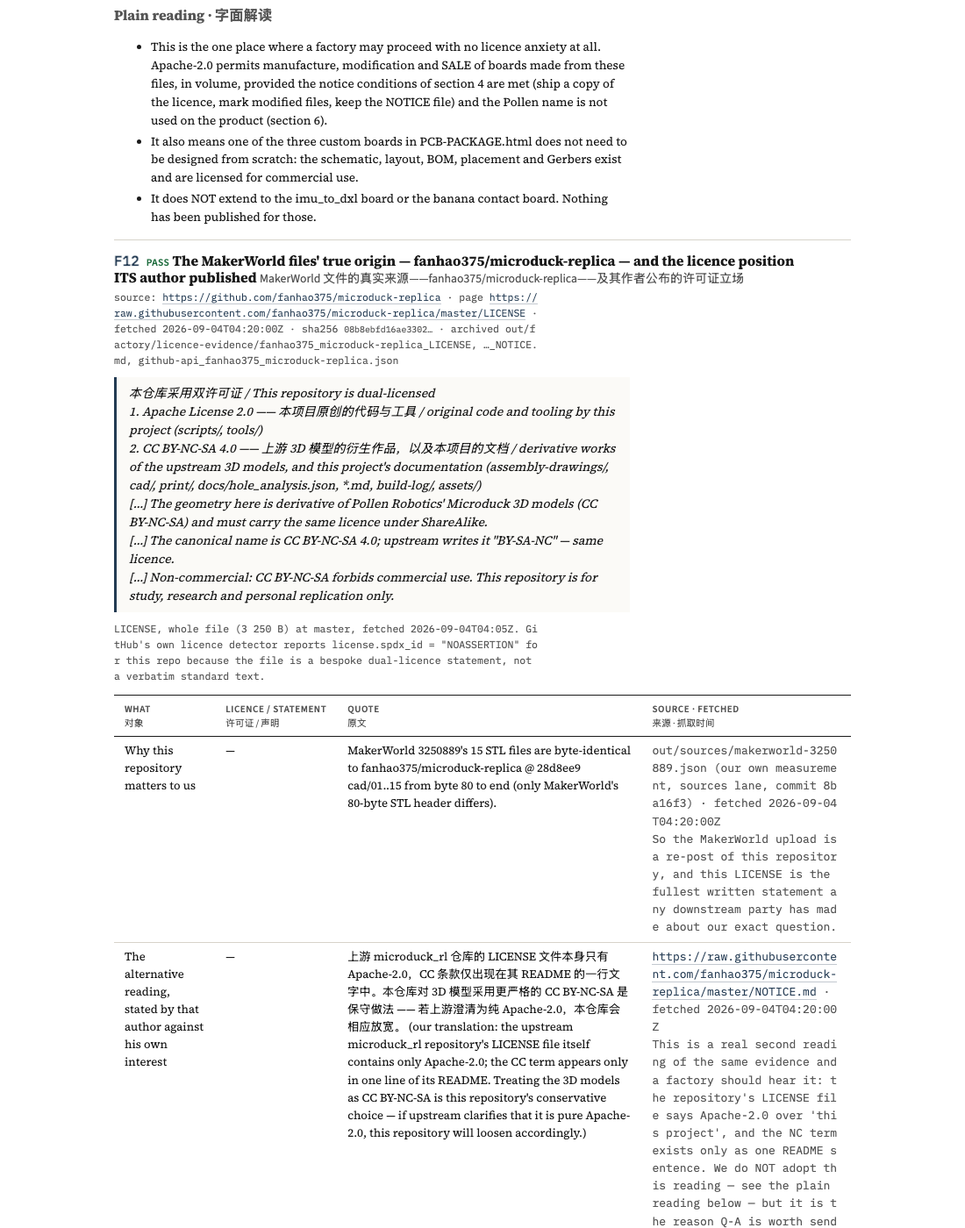
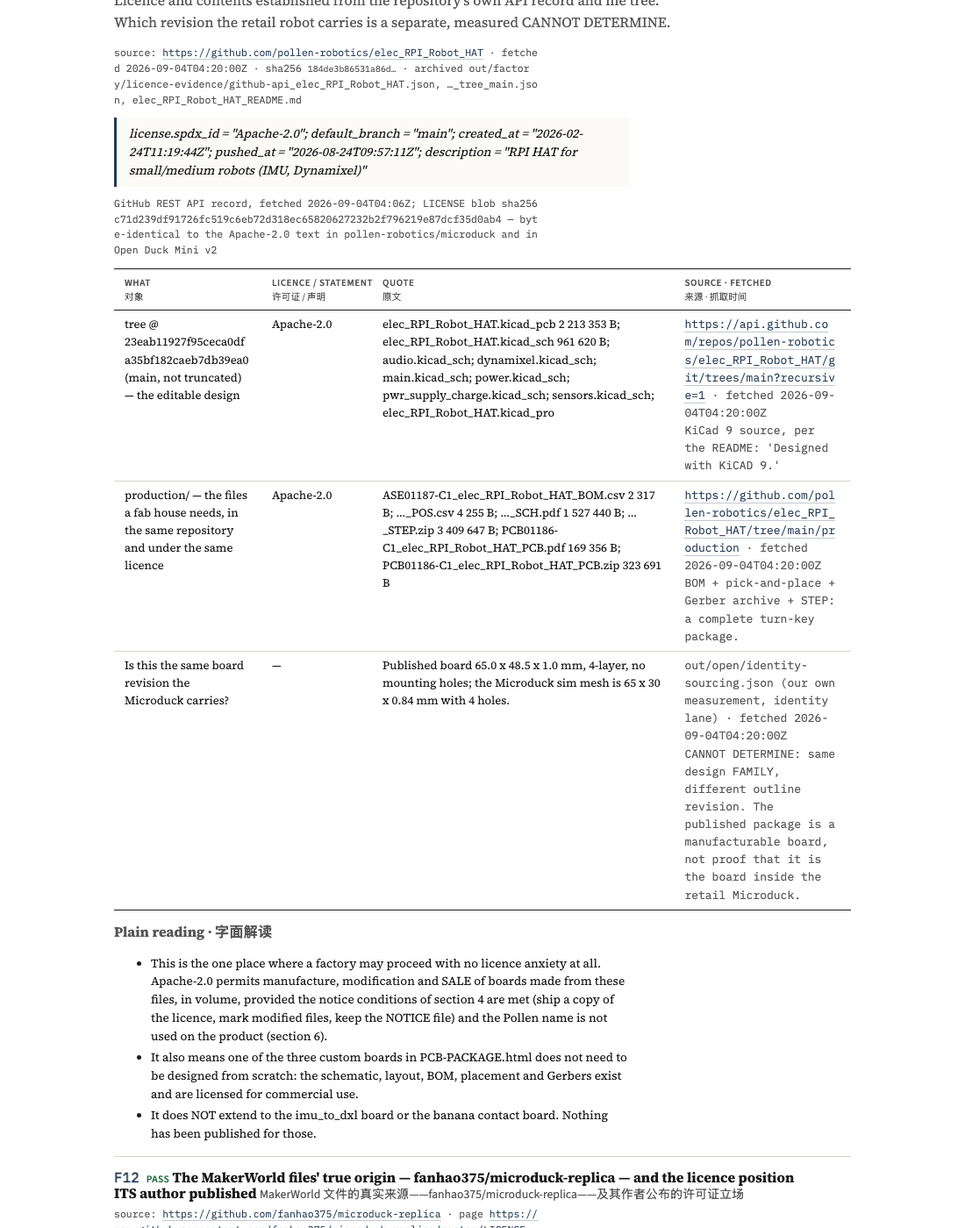
licence lane: LOOKED AT the page and fixed two real CSS defects the read-back found. (1) A latent bug in the generator's <style> block — that string is NOT %-formatted, so 'width:100%%' leaked literally into the CSS and table#ev / table#repo never received the table-layout:fixed they were written to

Changed region(s): [[0.1236, 0.0, 0.8655, 0.8293], [0.1236, 0.7371, 0.8655, 1.0]]

diff --git a/LICENCE-POSITION.html b/LICENCE-POSITION.html
@@ -30,8 +30,18 @@
   table.data td.v .chip.long{white-space:normal;display:inline-block;max-width:150px;line-height:1.35}
   table#q4 td.v{white-space:normal;min-width:120px}
   table#q4{table-layout:fixed}
-  table#ev{table-layout:fixed;width:100%%;min-width:0} table#ev td,table#ev th{overflow-wrap:anywhere;word-break:break-all;white-space:normal}
-  table#repo{table-layout:fixed;width:100%%;min-width:0} table#repo td{overflow-wrap:anywhere;white-space:normal}
+  table#ev{table-layout:fixed;width:100%;min-width:0} table#ev td,table#ev th{overflow-wrap:anywhere;word-break:break-all;white-space:normal}
+  table#repo{table-layout:fixed;width:100%;min-width:0} table#repo td{overflow-wrap:anywhere;white-space:normal}
+  /* fact ITEM tables carry raw URLs, API bodies and hashes: without a fixed layout one
+     long unbreakable token pushes the table past its column and a print/PDF loses a column.
+     MEASURED 2026-09-04: F18 rendered 867 px inside an 840 px column before this rule. */
+  table.items{table-layout:fixed;width:100%}
+  table.items td,table.items th{overflow-wrap:anywhere;word-break:break-word}
+  /* only the URL may break mid-token. The .src cell also carries a prose note, and
+     break-all chopped it per character ("Publishin g board designs openly is Pollen's
+     standing p ractice") — READ BACK off strip 17, 2026-09-04, and fixed here. */
+  table.items td.src{word-break:normal;overflow-wrap:anywhere}
+  table.items td.src a{word-break:break-all}
   .instr{display:grid;grid-template-columns:1fr 1fr;gap:18px}
   .instr ol{margin:0 0 0 20px;font-size:13.5px}
   .instr ol li{margin:5px 0}
@@ -46,7 +56,7 @@
   <p class="eyebrow">Microduck · factory handoff pack · 工厂交接资料包</p>
   <h1>Licence and origin position <span class="zh">许可证与来源立场</span></h1>
   <p class="sub">What Pollen Robotics published, under which terms, what that plainly allows a factory to do, and what is ours. Every fact carries a URL, a verbatim quote, a fetch time and a hash of the archived bytes. This is the licence text and its plain reading; it is not legal advice. <span class="zh">本页记录 Pollen Robotics 发布了什么、采用何种条款、字面上允许工厂做什么、哪些属于我们。每条事实都附有网址、原文引用、抓取时间和存档字节的哈希值。本页是许可证原文及其字面解读，不构成法律意见。</span></p>
-  <div class="rev"><span>MD-LIC-001 · Rev A</span><span>2026-09-04 09:11 UTC</span><span>generator: tools/gen_licence.py</span><span>data: out/factory/licence.json</span><span>facts fetched: 2026-09-04T09:10:00Z</span></div>
+  <div class="rev"><span>MD-LIC-001 · Rev A</span><span>2026-09-04 09:16 UTC</span><span>generator: tools/gen_licence.py</span><span>data: out/factory/licence.json</span><span>facts fetched: 2026-09-04T09:10:00Z</span></div>
 </header>
 <div class="statbar">
   <div class="stat"><b>19</b><span>facts · 事实</span></div>
@@ -87,7 +97,7 @@
 </div>
 <div class="fact" id="F3"><h3><span class="id">F3</span><span class="chip pass">PASS</span> Pollen software and firmware licences (separate from the models) <span class="zh">Pollen 软件与固件许可证（与模型分开）</span></h3>
 <p class="lede">Software and firmware licences established. One new item added 2026-09-04 (microduck-gst-plugins) and the Hugging Face policy licence re-fetched the same night. The one un-audited item is the licence stack INSIDE the prebuilt GStreamer binaries — Q-F.</p>
-<div class="tablewrap"><table class="data"><thead><tr><th>What<br><span class="zh">对象</span></th><th>Licence / statement<br><span class="zh">许可证 / 声明</span></th><th>Quote<br><span class="zh">原文</span></th><th>Source · fetched<br><span class="zh">来源 · 抓取时间</span></th></tr></thead><tbody>
+<div class="tablewrap"><table class="data items"><colgroup><col style="width:20%"><col style="width:15%"><col style="width:41%"><col style="width:24%"></colgroup><thead><tr><th>What<br><span class="zh">对象</span></th><th>Licence / statement<br><span class="zh">许可证 / 声明</span></th><th>Quote<br><span class="zh">原文</span></th><th>Source · fetched<br><span class="zh">来源 · 抓取时间</span></th></tr></thead><tbody>
 <tr><td>pollen-robotics/microduck — the robot&#x27;s runtime (robotd, duck-control, tofd, mediad, updaterd, robotctl, duckctl)</td><td>Apache-2.0</td><td>license.spdx_id = &quot;Apache-2.0&quot;; default_branch = &quot;main&quot;; pushed_at = &quot;2026-09-03T15:06:34Z&quot;</td><td class="src"><a href="https://api.github.com/repos/pollen-robotics/microduck">https://api.github.com/repos/pollen-robotics/microduck</a> · fetched 2026-09-03T15:14:55Z<br>The README of this repository carries no licence sentence at all (grep -i licen on the live README: 0 hits, 2026-09-03). The LICENSE file is the only statement.</td></tr>
 <tr><td>pollen-robotics/microduck_rl — training code, MJCF loaders, export scripts</td><td>Apache-2.0 for &#x27;this project&#x27;; 3D model files carved out to CC (F1)</td><td></td><td class="src"><a href="https://raw.githubusercontent.com/pollen-robotics/microduck_rl/develop/LICENSE">https://raw.githubusercontent.com/pollen-robotics/microduck_rl/develop/LICENSE</a> · fetched 2026-09-03T15:14:55Z<br>2d3fd9ffffa70a4307498ec630b14a6b4731e010f8ddda92686eaf65733c2dfe</td></tr>
 <tr><td>Shipped policies (ONNX) on Hugging Face, pollen-robotics/microduck-policies</td><td>Apache-2.0</td><td></td><td class="src"><a href="https://huggingface.co/api/models/pollen-robotics/microduck-policies">https://huggingface.co/api/models/pollen-robotics/microduck-policies</a><br>RE-FETCHED TONIGHT 2026-09-04T09:0xZ (the earlier note &#x27;not re-fetched tonight&#x27; is retired): cardData.license = &quot;apache-2.0&quot;, tags include &quot;license:apache-2.0&quot;, lastModified 2026-09-02T15:20:53Z, gated false, private false. Archived out/factory/licence-evidence/huggingface_microduck-policies.json, sha256 1e2308964ced1b34e8772f2d82d3fcdbe85a40e4fd49a7be550993ca1c6db666. NOTE the top-level &quot;license&quot; field is null and the licence lives in cardData/tags — a model card statement, not a LICENSE file in a repository.</td></tr>
@@ -103,7 +113,7 @@
 </div>
 <div class="fact" id="F4"><h3><span class="id">F4</span><span class="chip pass">PASS</span> Pollen&#x27;s own statement on the hardware <span class="zh">Pollen 关于硬件的官方声明</span></h3>
 <p class="lede">Established, and narrowed: &#x27;not open-source hardware&#x27; is Pollen&#x27;s own words about the robot as a whole; one board is nevertheless fully open (F11).</p>
-<div class="tablewrap"><table class="data"><thead><tr><th>What<br><span class="zh">对象</span></th><th>Licence / statement<br><span class="zh">许可证 / 声明</span></th><th>Quote<br><span class="zh">原文</span></th><th>Source · fetched<br><span class="zh">来源 · 抓取时间</span></th></tr></thead><tbody>
+<div class="tablewrap"><table class="data items"><colgroup><col style="width:20%"><col style="width:15%"><col style="width:41%"><col style="width:24%"></colgroup><thead><tr><th>What<br><span class="zh">对象</span></th><th>Licence / statement<br><span class="zh">许可证 / 声明</span></th><th>Quote<br><span class="zh">原文</span></th><th>Source · fetched<br><span class="zh">来源 · 抓取时间</span></th></tr></thead><tbody>
 <tr><td></td><td></td><td>Open source = software. The open-source statement covers the software stack. The mechanical and electronic design files are not, so please do not describe the robot as open-source hardware.<br><i>© 2026 Pollen Robotics · Open source under Apache 2.0 (site footer)</i></td><td class="src"><a href="https://pollen-robotics.com/microduck/press-kit/">https://pollen-robotics.com/microduck/press-kit/</a> · fetched 2026-09-03T15:16:30Z · sha256 0a7d444d1c020f18…</td></tr>
 <tr><td><br><span class="zh">Brandon Vigliarolo, published Thu 27 Aug 2026 17:25 UTC</span></td><td></td><td>That hardware isn&#x27;t open source, mind you, but the entire software stack Microduck is built on is, and Pollen is encouraging users to share skills once the entire Microduck system goes live later this year. A Pollen rep told us that the company has no plans to open source the hardware.</td><td class="src"><a href="https://www.theregister.com/ai-and-ml/2026/08/27/hugging-face-offers-399-robot-duck-to-help-you-quack-the-ai-code/5293011">https://www.theregister.com/ai-and-ml/2026/08/27/hugging-face-offers-399-robot-duck-to-help-you-quack-the-ai-code/5293011</a> · fetched 2026-09-03T15:17:10Z · sha256 4d809b7a1b713e19…</td></tr>
 </tbody></table></div>
@@ -154,7 +164,7 @@
 <p class="lede"><b>Plain reading · 字面解读</b></p><ul><li>The licence is a COPYRIGHT licence (1(a): &#x27;material subject to Copyright and Similar Rights&#x27;). It only reaches what copyright reaches. Whether the functional shape of a servo bracket is protected by copyright, and in which country, is not answered by the licence text. That is the single question counsel must answer (Q-B).</li><li>The grant (2(a)(1)) covers reproducing the files and producing Adapted Material — including, on the plain reading, physical objects made from them — for NonCommercial purposes ONLY.</li><li>ShareAlike (3(b)) binds anything we SHARE that is Adapted Material: drawings, rebuilt CAD, STEP files we hand to a factory, if they are Adapted Material, must go out under BY-NC-SA with attribution (3(a)).</li><li>Nothing in the licence is a volume threshold, a royalty schedule or a per-unit fee; NC is a purpose test.</li></ul>
 </div>
 <div class="fact" id="F8"><h3><span class="id">F8</span><span class="chip pass">PASS</span> What Pollen sells and at what price <span class="zh">Pollen 的销售产品与价格</span></h3>
-<div class="tablewrap"><table class="data"><thead><tr><th>What<br><span class="zh">对象</span></th><th>Licence / statement<br><span class="zh">许可证 / 声明</span></th><th>Quote<br><span class="zh">原文</span></th><th>Source · fetched<br><span class="zh">来源 · 抓取时间</span></th></tr></thead><tbody>
+<div class="tablewrap"><table class="data items"><colgroup><col style="width:20%"><col style="width:15%"><col style="width:41%"><col style="width:24%"></colgroup><thead><tr><th>What<br><span class="zh">对象</span></th><th>Licence / statement<br><span class="zh">许可证 / 声明</span></th><th>Quote<br><span class="zh">原文</span></th><th>Source · fetched<br><span class="zh">来源 · 抓取时间</span></th></tr></thead><tbody>
 <tr><td></td><td></td><td>Pre-order for $399 | $399 before taxes and shipping | Introductory price, before taxes and shipping. | The robot: Microduck $399 — In the box: Robot, battery, USB-C cable, game controller [...] | Charger pack $39 — Dual charger, 2x batteries. | Dev pack $119 — 3x spare motors, 5x motor cables, 2x batteries, dual charger, 10x NFC tags, Hugging Face credit, screwdriver, screw pack. | Accessory pack $39 — Laser pointer, NFC polaroid, 2x rollers, ball, 10x NFC tags.</td><td class="src"><a href="https://pollen-robotics.com/microduck/">https://pollen-robotics.com/microduck/</a> · fetched 2026-09-03T15:16:30Z</td></tr>
 <tr><td></td><td></td><td>Microduck Cream €340,00 EUR | Charger Pack €33,00 | Accessory Pack €33,00 | Dev Pack €99,99 | Shipping &amp; Availability: Pre-order price: $399 before taxes and shipping</td><td class="src"><a href="https://store.pollen-robotics.com/products/microduck">https://store.pollen-robotics.com/products/microduck</a> · fetched 2026-09-03T15:16:30Z · sha256 59c1341313914e06…<br>Shopify JSON in the page: &quot;price&quot;:{&quot;amount&quot;:340.0,&quot;currencyCode&quot;:&quot;EUR&quot;} for each of the four colour variants.</td></tr>
 <tr><td></td><td></td><td>Price $399 before taxes and shipping, introductory | Pre-orders Open from August 27, 2026 | First deliveries Targeted before Christmas 2026 | Markets North America and Europe at launch | Colourways 4 at launch: Cream, Graphite, Lavender and Sky</td><td class="src"><a href="https://pollen-robotics.com/microduck/press-kit/">https://pollen-robotics.com/microduck/press-kit/</a> · fetched 2026-09-03T15:16:30Z</td></tr>
@@ -181,7 +191,7 @@
 <p class="src">source: <a href="https://github.com/pollen-robotics/elec_RPI_Robot_HAT">https://github.com/pollen-robotics/elec_RPI_Robot_HAT</a> · fetched 2026-09-04T04:20:00Z · sha256 <code>184de3b86531a86d…</code> · archived out/factory/licence-evidence/github-api_elec_RPI_Robot_HAT.json, …_tree_main.json, elec_RPI_Robot_HAT_README.md</p>
 <blockquote class="q">license.spdx_id = &quot;Apache-2.0&quot;; default_branch = &quot;main&quot;; created_at = &quot;2026-02-24T11:19:44Z&quot;; pushed_at = &quot;2026-08-24T09:57:11Z&quot;; description = &quot;RPI HAT for small/medium robots (IMU, Dynamixel)&quot;</blockquote>
 <p class="src">GitHub REST API record, fetched 2026-09-04T04:06Z; LICENSE blob sha256 c71d239df91726fc519c6eb72d318ec65820627232b2f796219e87dcf35d0ab4 — byte-identical to the Apache-2.0 text in pollen-robotics/microduck and in Open Duck Mini v2</p>
-<div class="tablewrap"><table class="data"><thead><tr><th>What<br><span class="zh">对象</span></th><th>Licence / statement<br><span class="zh">许可证 / 声明</span></th><th>Quote<br><span class="zh">原文</span></th><th>Source · fetched<br><span class="zh">来源 · 抓取时间</span></th></tr></thead><tbody>
+<div class="tablewrap"><table class="data items"><colgroup><col style="width:20%"><col style="width:15%"><col style="width:41%"><col style="width:24%"></colgroup><thead><tr><th>What<br><span class="zh">对象</span></th><th>Licence / statement<br><span class="zh">许可证 / 声明</span></th><th>Quote<br><span class="zh">原文</span></th><th>Source · fetched<br><span class="zh">来源 · 抓取时间</span></th></tr></thead><tbody>
 <tr><td>tree @ 23eab11927f95ceca0dfa35bf182caeb7db39ea0 (main, not truncated) — the editable design</td><td>Apache-2.0</td><td>elec_RPI_Robot_HAT.kicad_pcb 2 213 353 B; elec_RPI_Robot_HAT.kicad_sch 961 620 B; audio.kicad_sch; dynamixel.kicad_sch; main.kicad_sch; power.kicad_sch; pwr_supply_charge.kicad_sch; sensors.kicad_sch; elec_RPI_Robot_HAT.kicad_pro</td><td class="src"><a href="https://api.github.com/repos/pollen-robotics/elec_RPI_Robot_HAT/git/trees/main?recursive=1">https://api.github.com/repos/pollen-robotics/elec_RPI_Robot_HAT/git/trees/main?recursive=1</a> · fetched 2026-09-04T04:20:00Z<br>KiCad 9 source, per the README: &#x27;Designed with KiCAD 9.&#x27;</td></tr>
 <tr><td>production/ — the files a fab house needs, in the same repository and under the same licence</td><td>Apache-2.0</td><td>ASE01187-C1_elec_RPI_Robot_HAT_BOM.csv 2 317 B; …_POS.csv 4 255 B; …_SCH.pdf 1 527 440 B; …_STEP.zip 3 409 647 B; PCB01186-C1_elec_RPI_Robot_HAT_PCB.pdf 169 356 B; PCB01186-C1_elec_RPI_Robot_HAT_PCB.zip 323 691 B</td><td class="src"><a href="https://github.com/pollen-robotics/elec_RPI_Robot_HAT/tree/main/production">https://github.com/pollen-robotics/elec_RPI_Robot_HAT/tree/main/production</a> · fetched 2026-09-04T04:20:00Z<br>BOM + pick-and-place + Gerber archive + STEP: a complete turn-key package.</td></tr>
 <tr><td>Is this the same board revision the Microduck carries?</td><td>—</td><td>Published board 65.0 x 48.5 x 1.0 mm, 4-layer, no mounting holes; the Microduck sim mesh is 65 x 30 x 0.84 mm with 4 holes.</td><td class="src">out/open/identity-sourcing.json (our own measurement, identity lane) · fetched 2026-09-04T04:20:00Z<br>CANNOT DETERMINE: same design FAMILY, different outline revision. The published package is a manufacturable board, not proof that it is the board inside the retail Microduck.</td></tr>
@@ -192,7 +202,7 @@
 <p class="src">source: <a href="https://github.com/fanhao375/microduck-replica">https://github.com/fanhao375/microduck-replica</a> · page <a href="https://raw.githubusercontent.com/fanhao375/microduck-replica/master/LICENSE">https://raw.githubusercontent.com/fanhao375/microduck-replica/master/LICENSE</a> · fetched 2026-09-04T04:20:00Z · sha256 <code>08b8ebfd16ae3302…</code> · archived out/factory/licence-evidence/fanhao375_microduck-replica_LICENSE, …_NOTICE.md, github-api_fanhao375_microduck-replica.json</p>
 <blockquote class="q">本仓库采用双许可证 / This repository is dual-licensed<br>1. Apache License 2.0 —— 本项目原创的代码与工具 / original code and tooling by this project (scripts/, tools/)<br>2. CC BY-NC-SA 4.0 —— 上游 3D 模型的衍生作品，以及本项目的文档 / derivative works of the upstream 3D models, and this project&#x27;s documentation (assembly-drawings/, cad/, print/, docs/hole_analysis.json, *.md, build-log/, assets/)<br>[…] The geometry here is derivative of Pollen Robotics&#x27; Microduck 3D models (CC BY-NC-SA) and must carry the same licence under ShareAlike.<br>[…] The canonical name is CC BY-NC-SA 4.0; upstream writes it &quot;BY-SA-NC&quot; — same licence.<br>[…] Non-commercial: CC BY-NC-SA forbids commercial use. This repository is for study, research and personal replication only.</blockquote>
 <p class="src">LICENSE, whole file (3 250 B) at master, fetched 2026-09-04T04:05Z. GitHub&#x27;s own licence detector reports license.spdx_id = &quot;NOASSERTION&quot; for this repo because the file is a bespoke dual-licence statement, not a verbatim standard text.</p>
-<div class="tablewrap"><table class="data"><thead><tr><th>What<br><span class="zh">对象</span></th><th>Licence / statement<br><span class="zh">许可证 / 声明</span></th><th>Quote<br><span class="zh">原文</span></th><th>Source · fetched<br><span class="zh">来源 · 抓取时间</span></th></tr></thead><tbody>
+<div class="tablewrap"><table class="data items"><colgroup><col style="width:20%"><col style="width:15%"><col style="width:41%"><col style="width:24%"></colgroup><thead><tr><th>What<br><span class="zh">对象</span></th><th>Licence / statement<br><span class="zh">许可证 / 声明</span></th><th>Quote<br><span class="zh">原文</span></th><th>Source · fetched<br><span class="zh">来源 · 抓取时间</span></th></tr></thead><tbody>
 <tr><td>Why this repository matters to us</td><td>—</td><td>MakerWorld 3250889&#x27;s 15 STL files are byte-identical to fanhao375/microduck-replica @ 28d8ee9 cad/01..15 from byte 80 to end (only MakerWorld&#x27;s 80-byte STL header differs).</td><td class="src">out/sources/makerworld-3250889.json (our own measurement, sources lane, commit 8ba16f3) · fetched 2026-09-04T04:20:00Z<br>So the MakerWorld upload is a re-post of this repository, and this LICENSE is the fullest written statement any downstream party has made about our exact question.</td></tr>
 <tr><td>The alternative reading, stated by that author against his own interest</td><td>—</td><td>上游 microduck_rl 仓库的 LICENSE 文件本身只有 Apache-2.0，CC 条款仅出现在其 README 的一行文字中。本仓库对 3D 模型采用更严格的 CC BY-NC-SA 是保守做法 —— 若上游澄清为纯 Apache-2.0，本仓库会相应放宽。 (our translation: the upstream microduck_rl repository&#x27;s LICENSE file itself contains only Apache-2.0; the CC term appears only in one line of its README. Treating the 3D models as CC BY-NC-SA is this repository&#x27;s conservative choice — if upstream clarifies that it is pure Apache-2.0, this repository will loosen accordingly.)</td><td class="src"><a href="https://raw.githubusercontent.com/fanhao375/microduck-replica/master/NOTICE.md">https://raw.githubusercontent.com/fanhao375/microduck-replica/master/NOTICE.md</a> · fetched 2026-09-04T04:20:00Z<br>This is a real second reading of the same evidence and a factory should hear it: the repository&#x27;s LICENSE file says Apache-2.0 over &#x27;this project&#x27;, and the NC term exists only as one README sentence. We do NOT adopt this reading — see the plain reading below — but it is the reason Q-A is worth sending.</td></tr>
 <tr><td>Attribution wording that party uses</td><td>CC BY-NC-SA 4.0</td><td>基于 Pollen Robotics 的 Microduck 模型（CC BY-NC-SA） https://github.com/pollen-robotics/microduck_rl</td><td class="src"><a href="https://raw.githubusercontent.com/fanhao375/microduck-replica/master/NOTICE.md">https://raw.githubusercontent.com/fanhao375/microduck-replica/master/NOTICE.md</a> · fetched 2026-09-04T04:20:00Z<br>A ready-made attribution line in Chinese and the upstream baseline they pin: microduck_rl @ 2fa62b8 (2026-07-28 assets/).</td></tr>
@@ -218,7 +228,7 @@
 <p class="src">source: <a href="https://www.tmdn.org/tmview/api/search/results">https://www.tmdn.org/tmview/api/search/results</a> · page <a href="https://www.tmdn.org/tmview/">https://www.tmdn.org/tmview/</a> · fetched 2026-09-04T04:20:00Z</p>
 <blockquote class="q">basicSearch=&quot;microduck&quot; → {&quot;tradeMarks&quot;:[],&quot;page&quot;:1,&quot;totalPages&quot;:0,&quot;totalResults&quot;:0}</blockquote>
 <p class="src">TMview public search API, POST, HTTP 200, 2026-09-04T04:1xZ. TMview aggregates EUIPO, the EU national offices, USPTO, CNIPA and WIPO.</p>
-<div class="tablewrap"><table class="data"><thead><tr><th>What<br><span class="zh">对象</span></th><th>Licence / statement<br><span class="zh">许可证 / 声明</span></th><th>Quote<br><span class="zh">原文</span></th><th>Source · fetched<br><span class="zh">来源 · 抓取时间</span></th></tr></thead><tbody>
+<div class="tablewrap"><table class="data items"><colgroup><col style="width:20%"><col style="width:15%"><col style="width:41%"><col style="width:24%"></colgroup><thead><tr><th>What<br><span class="zh">对象</span></th><th>Licence / statement<br><span class="zh">许可证 / 声明</span></th><th>Quote<br><span class="zh">原文</span></th><th>Source · fetched<br><span class="zh">来源 · 抓取时间</span></th></tr></thead><tbody>
 <tr><td>CONTROL — the same query shape on a name we know is registered</td><td>—</td><td>basicSearch=&quot;reachy&quot; → totalResults 47, including: REACHY | US | 97848202 | 2023-03-20 | Registered | POLLEN ROBOTICS; REACHY | WO | 1742404 | 2023-03-06 | Registered | POLLEN ROBOTICS; REACHY | CN | 20866236 | 2016-08-03 | Registered | 湖南锐成超硬复合材料有限责任公司</td><td class="src"><a href="https://www.tmdn.org/tmview/api/search/results">https://www.tmdn.org/tmview/api/search/results</a> · fetched 2026-09-04T04:20:00Z<br>The control proves the endpoint answers and reaches US, WO and CN. A zero for &#x27;microduck&#x27; is therefore a real zero, not a broken query.</td></tr>
 <tr><td>Pollen&#x27;s own registered mark</td><td>—</td><td>basicSearch=&quot;pollen&quot; → 1 863 results; of the first 100, one names POLLEN ROBOTICS as applicant: pollen | FR | 4608883 | 2019-12-19 | Registered</td><td class="src"><a href="https://www.tmdn.org/tmview/api/search/results">https://www.tmdn.org/tmview/api/search/results</a> · fetched 2026-09-04T04:20:00Z<br>Pollen Robotics files trademarks. That is the point of the control: they registered REACHY in the US and via WIPO, and &#x27;pollen&#x27; in France.</td></tr>
 <tr><td>Designs — NOT searched</td><td>—</td><td>POST to /tmdsview-web/rest/api/designs/search and /tmdsview-web/api/search/results both returned HTTP 000 (no reply) from this Mac.</td><td class="src"><a href="https://www.tmdn.org/tmdsview-web/">https://www.tmdn.org/tmdsview-web/</a> · fetched 2026-09-04T04:20:00Z<br>Registered Community designs, CN 外观设计 and US design patents remain unsearched. Named in Q-C.</td></tr>
@@ -237,7 +247,7 @@
 <p class="src">source: <a href="https://api.github.com/orgs/pollen-robotics/repos?per_page=100&amp;type=public (authenticated, --paginate)">https://api.github.com/orgs/pollen-robotics/repos?per_page=100&amp;type=public (authenticated, --paginate)</a> · page <a href="https://github.com/orgs/pollen-robotics/repositories">https://github.com/orgs/pollen-robotics/repositories</a> · fetched 2026-09-04T09:10:00Z · sha256 <code>853fda9476eb58c4…</code> · archived out/factory/licence-evidence/github_pollen-robotics_repo-census.json</p>
 <blockquote class="q">n_repos = 214; by_spdx = {&quot;Apache-2.0&quot;: 131, &quot;NONE&quot;: 37, &quot;NOASSERTION&quot;: 14, &quot;MIT&quot;: 13, &quot;BSD-3-Clause&quot;: 9, &quot;GPL-3.0&quot;: 4, &quot;CC-BY-SA-4.0&quot;: 3, &quot;CC0-1.0&quot;: 1, &quot;CC-BY-4.0&quot;: 1, &quot;BSD-2-Clause&quot;: 1}</blockquote>
 <p class="src">Every public repository of the pollen-robotics organisation, with the licence GitHub itself resolves for each, taken in one authenticated pass so the count is complete and not truncated by the anonymous rate limit (the anonymous call from this Mac returned HTTP 403 &#x27;API rate limit exceeded&#x27; at 09:0x UTC and produced zero rows — the reason this census is taken with an authenticated call).</p>
-<div class="tablewrap"><table class="data"><thead><tr><th>What<br><span class="zh">对象</span></th><th>Licence / statement<br><span class="zh">许可证 / 声明</span></th><th>Quote<br><span class="zh">原文</span></th><th>Source · fetched<br><span class="zh">来源 · 抓取时间</span></th></tr></thead><tbody>
+<div class="tablewrap"><table class="data items"><colgroup><col style="width:20%"><col style="width:15%"><col style="width:41%"><col style="width:24%"></colgroup><thead><tr><th>What<br><span class="zh">对象</span></th><th>Licence / statement<br><span class="zh">许可证 / 声明</span></th><th>Quote<br><span class="zh">原文</span></th><th>Source · fetched<br><span class="zh">来源 · 抓取时间</span></th></tr></thead><tbody>
 <tr><td>microduck — the robot&#x27;s runtime</td><td>Apache-2.0</td><td>default_branch = main; pushed_at = 2026-09-03T15:41:56Z; description = &quot;A Tiny biped duck robot 🦆&quot;</td><td class="src"><a href="https://github.com/pollen-robotics/microduck">https://github.com/pollen-robotics/microduck</a> · fetched 2026-09-04T09:10:00Z<br>Still Apache-2.0 tonight, and still being pushed to — the licence is live, not abandoned.</td></tr>
 <tr><td>microduck_rl — training environments AND the 43 meshes we build from</td><td>Apache-2.0 at the repository level; the CC sentence is README text only (F1, F19)</td><td>default_branch = develop; pushed_at = 2026-09-03T16:42:46Z</td><td class="src"><a href="https://github.com/pollen-robotics/microduck_rl">https://github.com/pollen-robotics/microduck_rl</a> · fetched 2026-09-04T09:10:00Z<br>GitHub&#x27;s own licence resolver reports Apache-2.0 for this repository. It cannot see the README carve-out. Anyone who reads only the GitHub licence badge will believe the meshes are Apache-2.0 — that is exactly the misreading F12&#x27;s author warns about, and the reason Q-A exists.</td></tr>
 <tr><td>microduck-gst-plugins — NEW, not in our earlier list: the prebuilt aarch64 GStreamer plugins the robot&#x27;s video path uses</td><td>Apache-2.0</td><td>default_branch = main; pushed_at = 2026-08-25T09:29:22Z; description = &quot;Prebuilt aarch64 GStreamer plugins for the micro duck robot: Rockchip MPP hardware encoders and gst-plugins-rs WebRTC. Built in CI from pinned upstream sources.&quot;</td><td class="src"><a href="https://github.com/pollen-robotics/microduck-gst-plugins">https://github.com/pollen-robotics/microduck-gst-plugins</a> · fetched 2026-09-04T09:10:00Z<br>A fourth Microduck software artifact, found by this census. It is a REPACKAGING of upstream projects, so the effective licence of what it ships is the upstream plugins&#x27; own (gst-plugins-rs is MPL-2.0, Rockchip MPP is Apache-2.0) — a factory shipping this binary must honour those, not only Pollen&#x27;s Apache-2.0 wrapper. Not yet audited file-by-file: see Q-F.</td></tr>
@@ -250,7 +260,7 @@
 <p class="src">source: <a href="https://www.tmdn.org/tmdsview-web/api/search/results (POST, JSON)">https://www.tmdn.org/tmdsview-web/api/search/results (POST, JSON)</a> · page <a href="https://www.tmdn.org/tmview/">https://www.tmdn.org/tmview/</a> · fetched 2026-09-04T09:10:00Z · sha256 <code>8964793853a4c8f7…</code> · archived out/factory/licence-evidence/tmview-rerun_microduck.json, tmview-rerun_reachy-control.json, designview_probe_2026-09-04.txt</p>
 <blockquote class="q">basicSearch=&quot;microduck&quot;, pageSize 100 → {&quot;tradeMarks&quot;:[],&quot;page&quot;:1,&quot;totalPages&quot;:0,&quot;totalResults&quot;:0}</blockquote>
 <p class="src">HTTP 200, 2026-09-04T09:07Z. Independent re-run of F15 (taken 2026-09-04T04:2xZ), through a different URL, with the same control.</p>
-<div class="tablewrap"><table class="data"><thead><tr><th>What<br><span class="zh">对象</span></th><th>Licence / statement<br><span class="zh">许可证 / 声明</span></th><th>Quote<br><span class="zh">原文</span></th><th>Source · fetched<br><span class="zh">来源 · 抓取时间</span></th></tr></thead><tbody>
+<div class="tablewrap"><table class="data items"><colgroup><col style="width:20%"><col style="width:15%"><col style="width:41%"><col style="width:24%"></colgroup><thead><tr><th>What<br><span class="zh">对象</span></th><th>Licence / statement<br><span class="zh">许可证 / 声明</span></th><th>Quote<br><span class="zh">原文</span></th><th>Source · fetched<br><span class="zh">来源 · 抓取时间</span></th></tr></thead><tbody>
 <tr><td>CONTROL, re-run at the same minute</td><td>—</td><td>basicSearch=&quot;reachy&quot; → totalResults 47, first record REACHY | MX | 2093340, markImageURI = https://www.tmdn.org/tmview/api/trademark/thumbnail/MX501985012093340</td><td class="src"><a href="https://www.tmdn.org/tmdsview-web/api/search/results">https://www.tmdn.org/tmdsview-web/api/search/results</a> · fetched 2026-09-04T09:10:00Z<br>Same 47 as F15 got four hours earlier through the other path. The zero for &#x27;microduck&#x27; is a real zero from a working endpoint, twice, by two routes.</td></tr>
 <tr><td>The canonical TMview path was BLOCKED tonight</td><td>—</td><td>HTTP 403 — &quot;The requested URL was rejected. Please consult with your administrator. Your support ID is: 5467687766780479252&quot;</td><td class="src"><a href="https://www.tmdn.org/tmview/api/search/results">https://www.tmdn.org/tmview/api/search/results</a> · fetched 2026-09-04T09:10:00Z<br>A web-application-firewall rejection page, not a licence fact. Recorded so the next agent does not read a 403 as &#x27;no such mark&#x27;. The /tmdsview-web/ path served the same API with HTTP 200.</td></tr>
 <tr><td>DESIGN rights — STILL NOT SEARCHED, and here is exactly why</td><td>—</td><td>POST /tmdsview-web/rest/api/design/search, /api/designs and /rest/api/designs/search → HTTP 405 Not Allowed (nginx/1.30.4). GET the same paths with a query string → HTTP 200 but the body is the single-page-app HTML shell, not JSON. index.3444bca5.js is 6 210 bytes and contains no /api or /rest path.</td><td class="src"><a href="https://www.tmdn.org/tmdsview-web/">https://www.tmdn.org/tmdsview-web/</a> · fetched 2026-09-04T09:10:00Z<br>TRAP, MEASURED AND REJECTED: POST /tmdsview-web/api/search/results DOES answer 200 and DOES return 0 for &#x27;microduck&#x27;. It is NOT a design search — the control returns 47 records under the key &quot;tradeMarks&quot; with tmview trademark thumbnail URLs. Reading that zero as &#x27;no registered design&#x27; would be a false clearance. It is not counted here.</td></tr>
@@ -382,7 +392,7 @@
 <li>Verdict words: PASS / FAIL / CANNOT DETERMINE. For a fact, PASS means established. For a question, PASS means the plain reading of the licence permits it, FAIL means it does not, CANNOT DETERMINE means the licence text does not answer it and the thing that does is named.</li>
 <li>A trade mark search WAS run on 2026-09-04 against TMview (EUIPO + EU national offices + USPTO + CNIPA + WIPO) with a control query, and it is reported as F15. No registered-design or patent search was run: both DesignView endpoints refused (F15, F9). No message was sent to anyone. Nothing was bought — in particular no Microduck was purchased, and F14 is the reason that matters.</li>
 <li>The Creative Commons clause text is the 4.0 International legal code. Pollen names no version; both 3.0 and 4.0 carry the NonCommercial and ShareAlike elements, so the plain-reading answers do not turn on the version, but the exact clause numbering would.</li>
-<li>Generated 2026-09-04 09:11 UTC by tools/gen_licence.py from out/factory/licence.json.</li>
+<li>Generated 2026-09-04 09:16 UTC by tools/gen_licence.py from out/factory/licence.json.</li>
 </ul></section>
 </div>
 </body>

diff --git a/tools/gen_licence.py b/tools/gen_licence.py
@@ -242,8 +242,18 @@ def render(data, census, wide, readme_checks, evidence, lic_file, now):
       '  table.data td.v .chip.long{white-space:normal;display:inline-block;max-width:150px;line-height:1.35}\n'
       '  table#q4 td.v{white-space:normal;min-width:120px}\n'
       '  table#q4{table-layout:fixed}\n'
-      '  table#ev{table-layout:fixed;width:100%%;min-width:0} table#ev td,table#ev th{overflow-wrap:anywhere;word-break:break-all;white-space:normal}\n'
-      '  table#repo{table-layout:fixed;width:100%%;min-width:0} table#repo td{overflow-wrap:anywhere;white-space:normal}\n'
+      '  table#ev{table-layout:fixed;width:100%;min-width:0} table#ev td,table#ev th{overflow-wrap:anywhere;word-break:break-all;white-space:normal}\n'
+      '  table#repo{table-layout:fixed;width:100%;min-width:0} table#repo td{overflow-wrap:anywhere;white-space:normal}\n'
+      '  /* fact ITEM tables carry raw URLs, API bodies and hashes: without a fixed layout one\n'
+      '     long unbreakable token pushes the table past its column and a print/PDF loses a column.\n'
+      '     MEASURED 2026-09-04: F18 rendered 867 px inside an 840 px column before this rule. */\n'
+      '  table.items{table-layout:fixed;width:100%}\n'
+      '  table.items td,table.items th{overflow-wrap:anywhere;word-break:break-word}\n'
+      '  /* only the URL may break mid-token. The .src cell also carries a prose note, and\n'
+      '     break-all chopped it per character ("Publishin g board designs openly is Pollen\'s\n'
+      '     standing p ractice") — READ BACK off strip 17, 2026-09-04, and fixed here. */\n'
+      '  table.items td.src{word-break:normal;overflow-wrap:anywhere}\n'
+      '  table.items td.src a{word-break:break-all}\n'
       '  .instr{display:grid;grid-template-columns:1fr 1fr;gap:18px}\n'
       '  .instr ol{margin:0 0 0 20px;font-size:13.5px}\n'
       '  .instr ol li{margin:5px 0}\n'
@@ -350,7 +360,9 @@ def render(data, census, wide, readme_checks, evidence, lic_file, now):
             A('<p class="src">Creative Commons FAQ: <a href="%s">%s</a></p>' % (e(f["cc_faq_source"].split(" ,")[0]), e(f["cc_faq_source"])))
             A(quote_block(f["cc_faq_quote"]))
         if f.get("items"):
-            A('<div class="tablewrap"><table class="data"><thead><tr>%s%s%s%s</tr></thead><tbody>'
+            A('<div class="tablewrap"><table class="data items">'
+              '<colgroup><col style="width:20%%"><col style="width:15%%"><col style="width:41%%"><col style="width:24%%"></colgroup>'
+              '<thead><tr>%s%s%s%s</tr></thead><tbody>'
               % (th("What", "对象"), th("Licence / statement", "许可证 / 声明"), th("Quote", "原文"), th("Source · fetched", "来源 · 抓取时间")))
             for it in f["items"]:
                 src = it.get("source_url") or it.get("source") or ""
